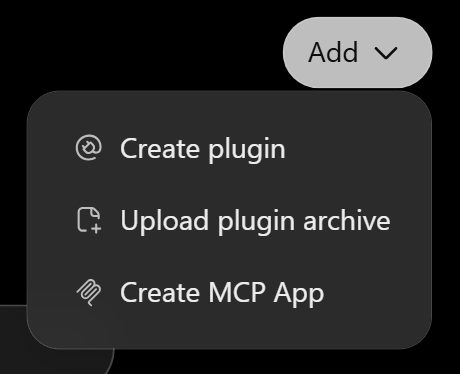
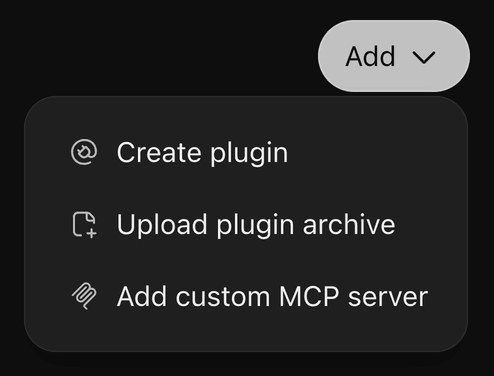
Bring docs, setup guide and model instructions up to date
ChatGPT renamed the custom connector flow: Plugins → Add → Add custom MCP
server, ending in "Create as a plugin" (checked live and in OpenAI's
Secure MCP Tunnel guide). The setup guide shows the new menu and form,
and README, setup and plugin docs use the new names.

Other statements no longer matched the code: Chrome 125 is the minimum,
the extension updates itself, recording is always on with no age-based
deletion, the default handoff is Thorough (10k-30k tokens), fresh
installs refresh plugins automatically, the Goal helper default is
gpt-6, and the Desktop connector offers browser tools on every platform.
The tool reference lists every published tool, and Core's instructions
tell ChatGPT to pass completed_session_id as write_stdin's session_id.

diff --git a/src/renderer/setup-guide.ts b/src/renderer/setup-guide.ts
@@ -52,13 +52,13 @@ const guides: Record<string, Shot[]> = {
   ],
   plugin: [
     { src: new URL('./setup-images/plugin-add.png', import.meta.url).href, spots: [
-      { text: 'Add → Create MCP App', box: [8.7, 70.1, 82.6, 16] }
+      { text: 'Add → Add custom MCP server', box: [6, 71.5, 88, 15] }
     ] },
     { src: new URL('./setup-images/plugin-new.png', import.meta.url).href, spots: [
-      { text: 'Paste the name exactly', box: [3.3, 20, 93.3, 5.2] },
-      { text: 'Tunnel, then your tunnel ID', box: [3.3, 38.7, 93.3, 15.1] },
-      { text: 'No authentication', box: [3.3, 59.4, 93.3, 5.1] },
-      { text: 'Accept, then Create', box: [84.3, 92, 12.4, 5.3] }
+      { text: 'Paste the name exactly', box: [3.3, 19.5, 93.3, 5] },
+      { text: 'Tunnel, then your tunnel ID', box: [3.3, 40.7, 93.3, 14.2] },
+      { text: 'No authentication', box: [3.3, 60.4, 93.3, 5] },
+      { text: 'Accept, then Create as a plugin', box: [71.2, 92.2, 25.4, 5] }
     ] },
     // So tasks are not paused for approval: the plugin's own permissions page, in ChatGPT's words.
     { src: new URL('./setup-images/plugin-permissions.png', import.meta.url).href, spots: [

diff --git a/src/main/mcp/instructions.ts b/src/main/mcp/instructions.ts
@@ -121,7 +121,7 @@ function coreInstructions(ctx: ToolContext, platform: NodeJS.Platform, skills: s
       'Use rg or rg --files for searches; if unavailable, use the next best tool. Prefer rg -g \'*.ts\' src over shell globs.',
       'Batch checks with exec_command cmds: [...]: one shell, per-command output and exit codes.',
       'Set workdir to the project; virtual paths work there. Inside cmd use relative or native paths.',
-      'write_stdin accepts session_id (running) or completed_session_id (finished). Completed reads replay output without rerunning work. Inspect exit/output; benign_exit marks an expected non-zero result.',
+      "write_stdin takes session_id: a running command's id, or pass a finished command's completed_session_id as session_id. Completed reads replay output without rerunning work. Inspect exit/output; benign_exit marks an expected non-zero result.",
       'If output is truncated, narrow the command or read the relevant region.'
     );
     if (windows) lines.push(

diff --git a/test/mcp-user-instructions.test.ts b/test/mcp-user-instructions.test.ts
@@ -89,6 +89,9 @@ describe('the user’s own connector instructions', () => {
   it.each(['win32', 'darwin', 'linux'] as const)('teaches the same terminal result lifetime on %s', platform => {
     const text = serverInstructions({ ...ctx, caps: { ...ctx.caps, command: true } }, 'core', platform);
     expect(text).toContain('completed_session_id');
+    // write_stdin has one id argument. completed_session_id is an exec_command result field that
+    // goes into it; read as a second argument, the strict schema refuses the call.
+    expect(text).toContain("pass a finished command's completed_session_id as session_id");
     expect(text).toContain('benign_exit');
     expect(text).toContain('without rerunning work');
     if (platform !== 'win32') {

diff --git a/src/renderer/tool-approval.ts b/src/renderer/tool-approval.ts
@@ -13,7 +13,7 @@ function notice(): HTMLElement {
   image.alt = t('Example of a ChatGPT tool approval prompt');
   card.append(image,
     el('p', '', () => t('Review the action, then open Allow → Always allow.')),
-    el('p', 'muted tool-approval-footnote', () => t('Separate from Plugins → Allow all actions. This reminder does not approve a tool call.')));
+    el('p', 'muted tool-approval-footnote', () => t('Separate from Plugins → Allow all tools. This reminder does not approve a tool call.')));
   return card;
 }
 

diff --git a/docs/setup.md b/docs/setup.md
@@ -10,13 +10,13 @@ Read the [responsible-use notice and provider rules](../README.md#responsible-us
 
 1. **Install and open CoS.** Choose the download for your operating system and CPU.
 2. **Choose what ChatGPT may access.** In **Settings → Workspace**, approve a project folder and review the tool permissions.
-3. **Connect the local tools.** Configure a tunnel in **Settings → Setup**, press **Connect**, then add the **Core** app in ChatGPT under **Plugins → Add → Create MCP App**.
+3. **Connect the local tools.** Configure a tunnel in **Settings → Setup**, press **Connect**, then add the **Core** app in ChatGPT under **Plugins → Add → Add custom MCP server**.
 4. **Load the companion extension.** Press **Open extension folder**. In `chrome://extensions`, enable Developer mode, choose **Load unpacked** and select that folder. Pairing is automatic.
 5. **Start a task.** Choose a project and model in CoS, write your request and send it.
 
 Want screen and keyboard control? Enable **Desktop** permissions and connect its separate app. On macOS, also grant Screen Recording and Accessibility in System Settings.
 
-**After an update:** reload the companion extension and refresh the CoS apps in ChatGPT when prompted. These are two separate steps.
+**After an update:** the companion extension updates itself once no chat is busy. If CoS asks you to refresh its apps in ChatGPT, do so; **Automatic plugin refresh** (Settings → Agents & automation → Browser & history) can do it for you.
 
 ## Tunnel setup
 
@@ -25,10 +25,10 @@ Want screen and keyboard control? Enable **Desktop** permissions and connect its
 1. Create a tunnel in [Platform → Tunnels](https://platform.openai.com/settings/organization/tunnels), in the same workspace you use in ChatGPT.
 2. Create a **Restricted** [API key](https://platform.openai.com/settings/organization/api-keys) with **Tunnels: Read** and **Tunnels: Use**.
 3. Enter the tunnel ID and key in CoS and press **Connect**.
-4. In ChatGPT, open [Plugins](https://chatgpt.com/plugins), click **Add** at the top right and choose **Create MCP App**. Pick **Tunnel** as the connection, select your tunnel and choose **No authentication**. Older ChatGPT versions instead need Developer mode turned on first (**Settings → Security and login**) and show a **+** button. Review and enable the app's actions.
+4. In ChatGPT, open [Plugins](https://chatgpt.com/plugins), click **Add** at the top right and choose **Add custom MCP server**. Under **Connection** pick **Tunnel** and select your tunnel (or paste its ID), set **Authentication** to **No authentication**, tick **I understand and want to continue** and click **Create as a plugin**. Older ChatGPT versions instead need Developer mode turned on first (**Settings → Security and login**) and show a **+** button. Review and enable the app's actions.
 5. Name each app exactly as CoS shows it (for example `Chat On Steroids Core`). You can rename it later in ChatGPT: after its first call, CoS recognizes the app by ChatGPT's app ID, and Setup shows the new name next to the original.
 
-> **No Developer mode switch?** That's expected. Current ChatGPT accounts, including new Plus accounts, create the app from **Plugins → Add → Create MCP App** without it, and file edits and desktop control work as before ([#522](https://github.com/totec448-spec/chat-on-steroids/issues/522)).
+> **No Developer mode switch?** That's expected. Current ChatGPT accounts, including new Plus accounts, create the app from **Plugins → Add → Add custom MCP server** without it, and file edits and desktop control work as before ([#522](https://github.com/totec448-spec/chat-on-steroids/issues/522)).
 
 Core, Desktop and Plugins are separate connectors. Configure each surface you enable. Release packages include the pinned, checksum-verified `tunnel-client`.
 
@@ -40,7 +40,7 @@ Core, Desktop and Plugins are separate connectors. Configure each surface you en
 
 ## Browser bridge port
 
-In **Settings → Browser & history → Browser bridge port**, choose **Auto** (default) or
+In **Settings → Agents & automation → Browser & history → Browser bridge port**, choose **Auto** (default) or
 **8765**, **8766**, **8767**, **8768**, **8769**. Auto uses the first available port in that
 order. A fixed choice uses exactly that port. The companion discovers the same supported range.
 
@@ -57,7 +57,7 @@ comma-separated override and port `0` remain available for isolated development/
 ## Background tabs
 
 With **Background chats** on, the tabs the app opens for workers and recovered chats stay in the
-background. **Settings → Browser & history → Background tabs open in** chooses where: **Their own
+background. **Settings → Agents & automation → Browser & history → Background tabs open in** chooses where: **Their own
 minimized window** (default) or **A tab group in your browser window**. The tab group is a collapsed
 "Chat On Steroids" group in the window you used last, and it stays there. The app never selects a
 tab or changes the window you are using. Chrome saves open tab groups automatically. The app's
@@ -106,13 +106,13 @@ them behind, so a caller should treat a refused connection as "not running".
 
 | Connector | What it adds |
 | --- | --- |
-| **Core** | Local files, patches, terminals, generated-file downloads, session history, plans and workers. Available on all supported platforms. |
-| **Desktop** | Screen inspection, mouse, keyboard and clipboard. Windows and macOS; macOS requires explicit enablement and OS permissions. |
+| **Core** | Local files, patches, terminals, saving ChatGPT-generated images, plans and workers. Available on all supported platforms. |
+| **Desktop** | Background browser tabs through the companion on every platform; screen inspection, mouse, keyboard and clipboard on Windows and macOS. macOS requires explicit enablement and OS permissions. |
 | **Plugins** | External MCP tools such as Blender, Playwright and Memory, plus custom local or remote servers. [Plugin guide](plugins.md). |
 
 You choose the approved folders and capabilities. File tools enforce those roots; shell commands run with your normal user privileges. Desktop access applies to the desktop, and external plugins have their own permissions. **Read-only mode** disables writes, command execution and desktop control.
 
-History is stored locally, with recording on and 30-day retention by default. Credentials use the operating system's secure storage. Review permissions before connecting: fresh installs enable Core capabilities and two workers; Windows also starts with Desktop permissions enabled.
+History is recorded locally and kept until you delete a chat; recording can't be turned off. Credentials use the operating system's secure storage. Review permissions before connecting: fresh installs enable Core capabilities and two workers; Windows also starts with Desktop permissions enabled.
 
 [Security policy](../SECURITY.md) · [Tool reference](tool-surface.md) · [Architecture](../AGENTS.md)
 
@@ -120,7 +120,7 @@ History is stored locally, with recording on and 30-day retention by default. Cr
 
 **Session history** belongs to the local session, not a particular ChatGPT tab. The companion records messages and the actual local tool results so the app and the model can read earlier work.
 
-**Compact & Resume** asks for a handoff, starts a fresh provider conversation and rebinds that same session. Task and worker history move with it. In Settings → Continuation prompts, **Handoff prompt** controls what the brief emphasizes; the continuation marker and recovery/provenance framing remain fixed. The shipped prompt prefers a dense roughly 2,000-6,000-token brief for substantial work instead of replaying completed chronology. Automatic compaction uses configured local estimates and eligible live work; Pro models never auto-compact.
+**Compact & Resume** asks for a handoff, starts a fresh provider conversation and rebinds that same session. Task and worker history move with it. In Settings → Continuation prompts, **Handoff prompt** controls what the brief emphasizes; the continuation marker and recovery/provenance framing remain fixed. **Handoff length** (Settings → Agents & automation → Browser & history) sets how much it keeps: **Thorough** (the default, about 10k–30k tokens), **Standard** (4k–10k) or **Short** (2k–6k). Automatic compaction uses configured local estimates and eligible live work; Pro models never auto-compact.
 
 **Workers** keep their conversation when they finish. Send a follow-up to reuse one. The default is two simultaneous workers per family, configurable up to eight. Idle owned tabs can be reused or closed after fresh checks; the durable worker history remains. Drafts, active work and pins are protected.
 
@@ -137,7 +137,7 @@ These continuity features do not grant additional quota or access. Do not use ne
 - **Tunnel rejects the API key or tunnel ID:** check the saved tunnel ID, the selected setup profile, and that its key has Tunnels Read + Use for that tunnel. Extension pairing does not authenticate the tunnel. If Platform offers no matching ChatGPT workspace, retain the exact error for an access investigation; a different tunnel does not establish account eligibility.
 - **ChatGPT blocks a tool for safety:** local permission alone does not prove that ChatGPT accepted or dispatched the call. Inspect the local tool history for the exact request. If no result exists, execution is unconfirmed; do not replay a potentially executed operation or route it through another connector. Keep the task's progress and report the provider's error, selected Chat/Work surface, and app/extension versions without credentials or private content. A plan label alone does not diagnose a provider refusal.
 - **CoS returns `TOOL_DISABLED`:** check Read-only and the named local capability. `CALLER_IDENTITY_REQUIRED` or `WORKER_IDENTITY_LOST` instead concerns exact caller ownership; neither proves that command execution is globally disabled.
-- **Extension version mismatch:** reload the unpacked companion after updating CoS, then reload the ChatGPT page.
+- **Extension version mismatch:** the companion updates itself once no chat is busy. If it stays on the old build, reload it in `chrome://extensions` (Chrome may have loaded it from another folder), then reload the ChatGPT page.
 - **Models missing:** use **Reload ChatGPT models**. The picker reflects availability in your signed-in account.
 - **`UNIDENTIFIED_CALLER`:** use that conversation in the paired browser so the extension can prove its request identity. CoS does not guess from the active tab.
 - **`COMPACTION_IN_PROGRESS`:** let the source chat finish its handoff. Work continues in the replacement conversation.

diff --git a/AGENTS.md b/AGENTS.md
@@ -193,7 +193,7 @@ define the tool/config/wire contract. README and worklogs are secondary and can 
 | --- | --- | --- |
 | Roots | None. | Root-requiring capabilities cannot be published usefully until a root is approved. |
 | Tool capabilities | Current `defaultConfig()` starts all Core capability flags on; read-only off. | Omitted legacy flags use conservative `DEFAULT_CAPABILITIES`. Malformed existing config is conservative recovery, not fresh consent. |
-| Recording | On, 30-day retention. | Explicit Off stays Off; retention still applies to old history. |
+| Recording | Always on; history is kept until a chat is deleted. | Config load normalizes the legacy `sessions.record`/`retainDays` to `true`/`0` (`config.ts`); `pruneSessions` is a no-op. Only an explicit chat delete or confirmed image-storage cleanup removes history. |
 | Context / compaction | Advisory 400,000; limit rounded from advisory × 4/3; auto-compaction on at advisory. | Estimated local units. Automatic execution additionally requires live work, current ownership and eligible model/role. |
 | Multi-agent | On, 2 simultaneous slot-holding workers **per family**, configured hard max 8; global worker admission cap Off (`0`, configurable through 64). | Legacy absent enabled/allow-unattributed fields remain false; an absent global cap remains Off. Existing choices stay exact. |
 | Wait for sub-agents | Off. | When on, a Goal/Loop chat's next automatic step waits for the workers that exact chat started. A chat with no run, or a run with no workers, waits either way. See §16. |
@@ -202,12 +202,12 @@ define the tool/config/wire contract. README and worklogs are secondary and can 
 | Strict chat allowlist | Off. | When on, every model-facing tool call needs exact attribution. Existing/direct browser chats require explicit Trust from the chat list. A fresh chat opened by the CoS composer gains an explicit Trust entry only after its exact opening row authoritatively binds to the new conversation. Broker-owned workers follow their exact owning prime and a committed Compact & Resume successor follows its durable source lineage. Block still wins, revocation is dynamic, and unattributed calls are refused even when the ordinary unattributed allowance is on. |
 | Recover ordinary/agent tabs | Off. | Goal/Loop can independently justify recovery; history alone cannot. |
 | Automatic Continue | On. | Unfinished-response recovery also serves enabled Goal/Loop. This switch controls ordinary chats; explicit Off survives and malformed config disables it. See §14. |
-| Goal / Loop | Off, preferred mode Goal. Both decision backends default to ChatGPT, helper `gpt-6-thinking` High (`DEFAULT_HELPER_CHAT_MODEL`); a config holding the superseded `gpt-5.6-sol` adopts it on load. | API uses the configured OpenRouter/custom endpoint and stored model. These defaults are not account-availability proof. |
+| Goal / Loop | Off, preferred mode Goal. Both decision backends default to ChatGPT, helper `gpt-6` High (`DEFAULT_HELPER_CHAT_MODEL`, which High runs on its thinking lane); a config holding a superseded helper (`SUPERSEDED_HELPER_CHAT_MODELS`: `gpt-5.6-sol`, `gpt-6-thinking`) adopts it on load. | API uses the configured OpenRouter/custom endpoint and stored model. These defaults are not account-availability proof. |
 | Ordinary new-chat model | Automatic: no persisted model or reasoning override. | Optional `ui.defaultChatModel` / `ui.defaultChatReasoning` apply only to a fresh ordinary chat before it has a conversation selection. A recorded conversation or accepted opening input wins. Worker and Goal/Loop/Plan defaults remain separate. |
 | Desktop | Windows on; macOS retains its off default and separate native OS consent; Linux supports extension browser control. | Existing screen/control grants also govern browser tools; unsupported native clipboard remains masked. No new per-tab permission dialog. |
 | Shell/UI | Dark theme, minimize to tray, no automatic connector connection/login startup by default. | Optional browser/finish/plan choices are resolved by current config and their consumer, not invented from absent fields. |
 | Command policy | Off, in Allowlist mode, with no rules. | Missing legacy settings stay Off; a missing mode defaults to Allowlist. Rules and mode persist while Off. An enabled empty Allowlist rejects every launch; an enabled empty Denylist permits simple supported commands. |
-| Plugin auto-refresh | Off. | Local status/discovery never claims ChatGPT refreshed its connector snapshot. |
+| Plugin auto-refresh | On. | Configs written before the setting existed read Off (schema default); conservative recovery also turns it off. Local status/discovery never claims ChatGPT refreshed its connector snapshot. |
 | Browser bridge port | Auto. | `ui.browserBridgePort` accepts Auto or 8765–8769. Effective `CLF_BRIDGE_PORTS` overrides it and disables the Settings control. |
 | Background chats | On. | Omitted legacy settings use On; explicit saved On/Off remains exact. Cold Windows startup requests a minimized browser window. |
 | Background placement | Window. | `ui.backgroundPlacement` `'window'` / `'group'` (an unknown saved value reads as `'window'`), published in `/status` as `backgroundPlacement`. Group mode puts every background tab in one collapsed "Chat On Steroids" tab group in the last-focused normal window (never the background window, never incognito), then keeps using it; failures fall back to the minimized window. No follow and no compaction tab selection in the user's window (#128). |
@@ -236,7 +236,7 @@ Paths in this section are repository-relative. Most mechanisms have `main`, `sha
 | Patching/images | `src/main/codex/apply-patch/*`, `codex/{filesystem,read-backend,view-image}.ts`. |
 | Projects/cwd | `src/main/projects.ts`, `workspace.ts`, `src/shared/projects.ts`: explicit local folder catalog, session binding, inherited/learned workspaces. |
 | Project Files UI | `src/main/project-files.ts`, `project-file-watcher.ts`, `src/shared/project-files.ts`, `src/renderer/{file-panel,file-code-editor,file-pdf-viewer,work-panel-resize}.ts`: bounded project views, revision-checked saves and renderer-owned drafts. |
-| Durable history | `src/main/session/{store,recorder,correlation,retention,summarize,progress}.ts`, `src/shared/{session,chronology}.ts`: canonical messages, tool truth, chronology and indexes. |
+| Durable history | `src/main/session/{store,recorder,correlation,summarize,progress}.ts`, `src/shared/{session,chronology}.ts`: canonical messages, tool truth, chronology and indexes. |
 | Input | `src/main/session/{input,start-input,input-history,input-attachments,input-images,prompt}.ts`, `src/shared/{input,user-prompt}.ts`: outbox, native files, prompt frame and receipts. |
 | Finish/planning | `src/main/session/finish.ts`, `task-request.ts`, `goal.ts`, `src/shared/{finish,task-progress}.ts`: held turn, decision/plan invocation and cancellation. |
 | Continuation | `src/main/session/{continuation,resume-gate,handoff,handoff-prompt}.ts`: A→B transaction, send ambiguity and exact brief. |
@@ -295,7 +295,7 @@ plugin manager, loads Goal ledgers, exact correlations and blocked/trusted chat 
 and every active/dormant prime family. Persistence hooks exist even when multi-agent is Off.
 Continuation restore follows swarm restore because it may repair prime ownership. IPC/input
 hooks precede browser traffic. Then the secure window/tray, bridge for recording or agents,
-the opt-in local control API, independent retention maintenance, optional connector
+the opt-in local control API, optional connector
 auto-connect and updater lifetime begin.
 The current first-window model-discovery exception is noted in §21.
 A restored catalog is observed again only on Refresh, after a send whose model could not be
@@ -2480,8 +2480,7 @@ opens another history, scans disk or resolves overflow assets. The bridge return
 redacted argument/result previews with binary payloads omitted and truthful process outcomes.
 Document, route and navigation epoch are checked around transport; a late response can only
 populate the currently connected disclosure for that same call/revision. A bounded document cache
-preserves open details across repaint and invalidates revised calls. Recording Off retains access
-to previously recorded previews without creating new content.
+preserves open details across repaint and invalidates revised calls.
 
 ## 14. Bridge, durable browser commands and recovery
 
@@ -4655,8 +4654,7 @@ shared-tree change may already have addressed them.
   all share the same semantic transaction. Intent is durable commit before visible state, with
   rollback unable to overwrite a newer accepted change.
 - **Goal cross-ledger controls:** master/config/secret changes still cross separate ledgers.
-  Recording Off lacks a uniform runtime gate for retained per-chat overrides. Attempt
-  invalidation now preserves debt, but these remaining controls still need one durable
+  Attempt invalidation now preserves debt, but these remaining controls still need one durable
   semantic transaction and effective current-setting enforcement.
 
 Do not restore obsolete claims while investigating: two MCP surfaces, one global prime run,

diff --git a/docs/tool-surface.md b/docs/tool-surface.md
@@ -6,16 +6,17 @@ authoritative; `src/main/mcp/surfaces.ts`, `src/main/mcp/tools-core.ts`,
 
 ## Connectors
 
-Chat On Steroids publishes Core on Windows, macOS and Linux. Windows and macOS additionally publish
-the optional Desktop connector. They are separate discovery and permission boundaries and use
-separate secret tokenized local paths.
+Chat On Steroids publishes three connectors. They are separate discovery and permission boundaries
+and use separate secret tokenized local paths. Each one also offers `exec`, a JavaScript runtime that
+composes that connector's own tools.
 
 | Connector | Purpose | Possible tools |
 | --- | --- | --- |
-| **Chat On Steroids Core** | Approved files, patches, terminal, task plans, workers | `read`, `view_image`, `find`, `apply_patch`, `exec_command`, `write_stdin`, `update_plan`, `agents` |
-| **Chat On Steroids Desktop** | **Windows/macOS:** screen, windows, mouse/keyboard and clipboard | `observe`, `computer` |
+| **Chat On Steroids Core** | Approved files, patches, terminal, generated images, task plans, workers | `read`, `view_image`, `find`, `apply_patch`, `save_image`, `exec_command`, `write_stdin`, `update_plan`, `agents`, `session_finish`, `exec` |
+| **Chat On Steroids Desktop** | Browser tabs through the companion (all platforms); screen, windows, mouse/keyboard and clipboard (Windows/macOS) | `browser_tabs`, `browser_snapshot`, `browser_screenshot`, `browser_navigate`, `browser_action`, `browser_evaluate`, `browser_console`, `browser_network`; Windows: `list_windows`, `get_window`, `list_apps`, `get_window_state`, `launch_app`, `click`, `press_key`, `type_text`, `scroll`, `set_value`, `drag`, `perform_secondary_action`, `activate_window`, `read_clipboard`, `write_clipboard`; macOS: `observe`, `computer`; `exec` |
+| **Chat On Steroids Plugins** | External MCP tools the user enabled in Settings | Each enabled tool under its own schema, plus `exec` |
 
-The Desktop connector is optional on Windows/macOS. Core is the main connector everywhere.
+Core is the main connector everywhere; Desktop and Plugins are optional.
 
 On a fresh current config, Core permissions are enabled, along with
 session recording and multi-agent mode; read-only mode is off. Windows also enables Desktop permissions; macOS starts them off and the user switches them on. Linux masks
@@ -23,10 +24,11 @@ Desktop permissions off at runtime while preserving stored choices for a config 
 Windows or macOS. Existing configs keep explicit choices during upgrades; missing legacy permissions are
 not silently widened.
 
-With fresh defaults, Core advertises `read`, `view_image`, `apply_patch`, `exec_command`,
-`write_stdin`, `update_plan`, and `agents`.
+With fresh defaults, Core advertises `read`, `view_image`, `apply_patch`, `save_image`,
+`exec_command`, `write_stdin`, `update_plan`, `agents` and `exec`. `session_finish` appears while
+Session finish is on.
 `find` is the search fallback for a snapshot where search is enabled and command execution is
-unavailable. Tool exposure is monotonic within a running connector instance, so a permission
+unavailable; `find` and the `exec_command`/`write_stdin` pair are never exposed together. Tool exposure is monotonic within a running connector instance, so a permission
 changed mid-conversation can leave a previously exposed name listed; its handler still enforces
 the current permission.
 
@@ -50,6 +52,12 @@ is gated by the read capability. Image transport and decode checks remain bounde
 
 Search fallback used when search is enabled and command execution was unavailable when the
 surface snapshot was built. It covers filename/glob and text search without granting a shell.
+
+### `save_image`
+
+Saves the original file of an image ChatGPT generated in the calling chat into a new file in an
+approved folder. It never replaces an existing file, and the chat must be open in the browser with
+the image on its page. `nth` counts back from the newest generated image.
 
 ### `apply_patch`
 
@@ -96,7 +104,7 @@ Codex's collection-window behaviour so one interactive response is gathered whol
 
 ### `update_plan`
 
-Available while recording is enabled. Replaces the exact caller’s displayed progress plan; it does
+Always available (recording is always on). Replaces the exact caller’s displayed progress plan; it does
 not execute queued work. Local history continues recording messages and real tool results for the
 app transcript and continuation. There is no model-facing recording search/read tool.
 
@@ -143,9 +151,32 @@ There is no model-supplied agent credential or `agent_key`. Worker/prime identit
 the ChatGPT conversation using extension evidence; control calls fail closed when that identity
 cannot be proven.
 
+### `exec`
+
+Runs a short JavaScript program that calls this connector's own tools by name, in parallel where
+they cannot conflict, and emits only what it passes to `text(...)` or `image(...)`. It has no Node,
+filesystem, network or imports, keeps no state between calls and is bounded (64k source characters,
+32 calls, 40k emitted text bytes, 4 images). `session_finish` and `agents action=finish` must be
+called directly. Each connector has its own `exec`, limited to its own tools.
+
 ## Desktop tools
 
-This section exists on Windows and macOS. Linux does not advertise or execute these schemas.
+### Browser tools (all platforms)
+
+`browser_tabs` lists and opens tabs in the user's existing Chrome, Edge or Brave through the
+companion extension and attaches or releases them. `browser_snapshot` reads a tab's DOM without
+attaching, including protected ChatGPT tabs. An attached tab also accepts `browser_screenshot`,
+`browser_navigate`, `browser_action` (click, hover, fill, type, select, key, scroll, drag and
+dialogs), `browser_evaluate`, `browser_console` and `browser_network`. Input works in the
+background without moving the OS cursor or bringing the browser to the front.
+
+### Native desktop tools (Windows and macOS)
+
+Linux does not advertise or execute these schemas. Windows publishes one tool per operation:
+`list_windows`, `get_window`, `list_apps` and `get_window_state` read, and `launch_app`, `click`,
+`press_key`, `type_text`, `scroll`, `set_value`, `drag`, `perform_secondary_action` and
+`activate_window` act; `read_clipboard` and `write_clipboard` follow the clipboard permissions.
+macOS publishes `observe` and `computer`, described below.
 
 ### `observe`
 
@@ -174,7 +205,7 @@ can keep observation available while disabling state-changing desktop actions.
 ## Permission and discovery invariants
 
 - A tool call is checked against current permissions even if its schema was exposed earlier.
-- Core and Desktop do not forward or alias each other's tools.
+- Core, Desktop and Plugins do not forward or alias each other's tools; each `exec` reaches only its own connector's tools.
 - A connector token for one surface does not authorize the other surface.
 - Read-only mode removes effective file-write, command, control and clipboard-write permissions
   without pretending the underlying configuration was changed.

diff --git a/README.md b/README.md
@@ -46,20 +46,20 @@ This notice states the project's intended use; it does not certify compliance or
 ## Get started
 
 1. **Install CoS** and approve your project folder in **Settings → Workspace**.
-2. **Connect Core** through **Settings → Setup** and add it in ChatGPT under **Plugins → Add → Create MCP App**. [Tunnel setup →](docs/setup.md#tunnel-setup)
+2. **Connect Core** through **Settings → Setup** and add it in ChatGPT under **Plugins → Add → Add custom MCP server**. [Tunnel setup →](docs/setup.md#tunnel-setup)
 3. **Load the companion extension.** Click **Open extension folder**, then **Load unpacked** in Chrome’s extension settings. Pairing is automatic.
 4. **Choose a model, write your task and send.**
 
 <details>
 <summary>Requirements &amp; installation notes</summary>
 
-Windows 10/11, **macOS 13 Ventura or newer**, or a current desktop Linux. Chrome 116+, current Edge or Brave, plus a ChatGPT account/workspace that can create custom MCP apps (availability depends on your plan and workspace policy). [Check account availability](https://help.openai.com/en/articles/12584461-developer-mode-and-mcp-apps-in-chatgpt).
+Windows 10/11, **macOS 13 Ventura or newer**, or a current desktop Linux. Chrome 125+, current Edge or Brave, plus a ChatGPT account/workspace that can create custom MCP apps (availability depends on your plan and workspace policy). [Check account availability](https://help.openai.com/en/articles/12584461-developer-mode-and-mcp-apps-in-chatgpt).
 
 - **Unsigned beta:** Windows is not publisher-signed; macOS is unsigned and unnotarized. Verify the package against the release checksums. Because of that, macOS asks once after each update for your login password so the new version can open its saved keys ("chat-on-steroids Safe Storage"); choose **Always Allow**. Until you answer, chats and the browser connection wait, and the app says so.
 - **Linux:** a Secret Service keyring is required. Prefer the DEB; when unprivileged user namespaces are disabled, the AppImage launcher can fall back to <code>--no-sandbox</code>.
 - **Permissions:** choose your approved folders and review capabilities before connecting. Fresh installs enable Core capabilities and two workers; Windows also enables Desktop permissions. Shell commands run with your normal user privileges.
 - **Languages:** English, German, Spanish, French, Korean, Portuguese (Brazil and Portugal), Russian, Turkish, Vietnamese, Japanese, and Simplified and Traditional Chinese. Choose one in **Appearance → Language**.
-- **After updating:** reload the companion extension and refresh the CoS apps in ChatGPT when prompted.
+- **After updating:** the companion extension updates itself once no chat is busy. If CoS asks you to refresh its apps in ChatGPT, do so; **Automatic plugin refresh** in Settings can do it for you.
 
 </details>
 

diff --git a/docs/plugins.md b/docs/plugins.md
@@ -1,6 +1,6 @@
 # External MCP plugins
 
-Settings → Plugins manages external MCP integrations. Core and Desktop keep their existing
+The **Plugins** page in the app's sidebar manages external MCP integrations. Core and Desktop keep their existing
 connectors, permissions and tool registration. Plugins uses a third, separately tokenized
 endpoint and the shared **Chat On Steroids Plugins** connector.
 
@@ -12,9 +12,9 @@ The [responsible-use notice](../README.md#responsible-use-and-provider-rules) ap
    With OpenAI Secure Tunnels, create a separate Plugins tunnel, enter its ID in
    the dialog, and choose **Save & connect**. The existing API key and tunnel executable are reused.
    Cloudflare/manual transports publish the Plugins endpoint at its separate path.
-2. Create the **Chat On Steroids Plugins** connector in ChatGPT using the displayed name,
-   description and MCP URL. Keep the CoS connection running.
-3. Open Settings → Plugins and click **+**. Choose a reviewed catalog recipe or a custom server. Review
+2. Create the **Chat On Steroids Plugins** connector in ChatGPT under **Plugins → Add → Add custom MCP server**,
+   using the displayed name and description and the Plugins tunnel (or MCP URL). Keep the CoS connection running.
+3. On the app's **Plugins** page, click **+**. Choose a reviewed catalog recipe or a custom server. Review
    installation instructions and supply credentials in the secure fields.
 4. A plugin becomes **Ready** only after connection and discovery succeed. Blender also
    requires its addon to answer a read-only scene probe. Local readiness does not prove

diff --git a/SECURITY.md b/SECURITY.md
@@ -29,7 +29,7 @@ Chat On Steroids is a permission boundary between ChatGPT and the logged-in OS u
   - Actions go through the same outbox as the composer, are refused without the second switch before any request body is read, and never resend a message whose delivery is unconfirmed. A send connects the app and opens the chat in your browser as the composer would, and a model that reads the message can act under the permissions you have granted, so treat the token, with that switch on, as the ability to speak in your chats. Turning the API off turns actions off, and turning it on again leaves them off.
   - It never returns MCP paths, tunnel ids, plugin configuration or credentials from the app's own state. Chat, tool and log text has known credential shapes (API keys, common vendor tokens, bearer headers, JWTs, URL passwords, private keys) masked and is length-capped, but anything else you typed into a chat is returned as recorded. Treat the token like access to your history.
 - Stored API/bridge credentials use Electron `safeStorage` (DPAPI on Windows, Keychain on macOS, a secure desktop secret store on Linux). Linux `basic_text` is refused; normal Activity logs are redacted, capped and memory-only.
-- Session recording is separate durable local history. It is on for fresh installs and can be disabled.
+- Session recording is separate durable local history. It is always on, and history is kept until you delete a chat.
 
 ## Provider rules and responsible use
 

diff --git a/CONTRIBUTING.md b/CONTRIBUTING.md
@@ -4,7 +4,7 @@ Chat On Steroids is a Windows/macOS/Linux beta maintained by one person. Bug rep
 
 ## Before a pull request
 
-For anything non-trivial, open an issue first so the intended behavior is clear. Security problems must be reported privately through [`SECURITY.md`](SECURITY.md), not as an issue or PR.
+No separate issue is needed: describe the problem and the change in the PR. For anything beyond a small fix, open a draft PR early and agree on the behavior there before building it out. Security problems must be reported privately through [`SECURITY.md`](SECURITY.md), not as an issue or PR.
 
 Keep changes narrow. Preserve existing permission, identity and recovery behavior unless the issue specifically requires changing it. Avoid unrelated formatting, generated output, local debugging material and private data. In screenshots, logs and examples, replace real usernames, local paths, chat text, IDs and credentials with obvious placeholders such as `C:\Users\you\project` or `/home/you/project`.
 

diff --git a/docs/plugin-licenses.md b/docs/plugin-licenses.md
@@ -10,7 +10,7 @@ license, including its permission and warranty notice in `LICENSE`. No external 
 assets were copied. The icons illustrate the integration's subject (3D, connected
 memory, browser automation, web retrieval, and connectivity), and are not official
 product marks. Product names identify compatible independent integrations and do not
-imply endorsement. This attribution also appears in Settings > Plugins > Legal Notices.
+imply endorsement. This attribution also appears on the app's Plugins page under Legal Notices / Third-party Licenses.
 
 Installed server source, version and license are tracked by the plugin manager. Their
 own license files remain in their installation. Reviewed local-package license snapshots
